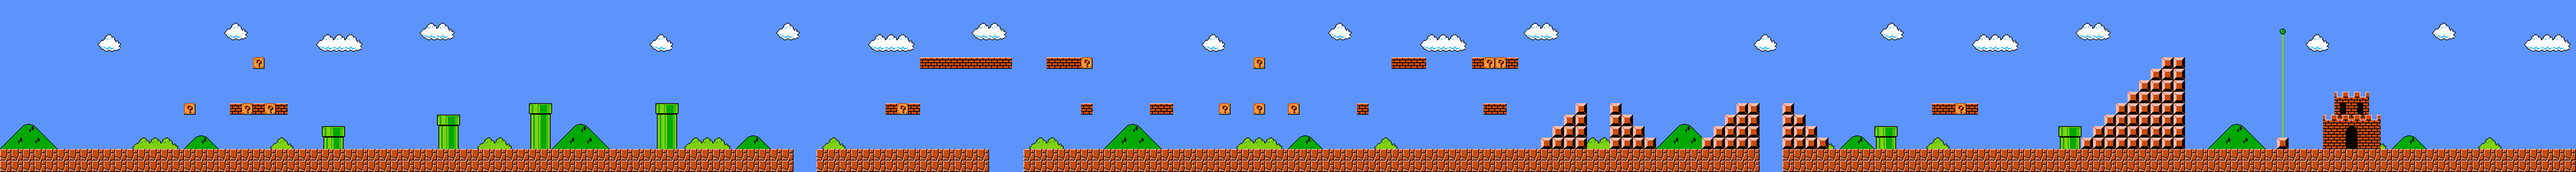
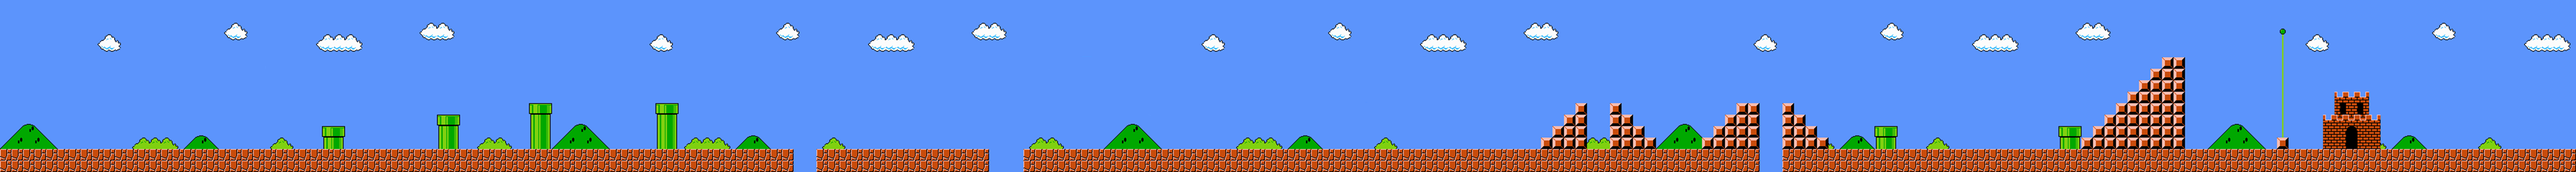
read README.md

diff --git a/src/GameManager.cpp b/src/GameManager.cpp
@@ -150,14 +150,14 @@ INITFORM_FUNC(initForm_1_1) {
 	img->SetPosition({ GetX0(img), 0 });
 	MyFM.addObject(Form_1_1, img);
 
-	auto mario = std::make_shared<Mario>("Mario", marioImagePath, 50);
+	auto mario = std::make_shared<Mario>("Mario", marioImagePath, 100);
 	mario->SetPosition({ 0, 100 });
 	//mario->SetPosition({ GetX0(Block) + Block->GetSize().x * 10, 100 });
 	MyFM.addObject(Form_1_1, mario);
 
-	auto event = std::make_shared<EventObject>("moveEvent", moveEvent);
-	event->userdata = std::make_shared<std::tuple<std::shared_ptr<ImageObject>, std::shared_ptr<Mario>>>(img, mario);
-	MyFM.addObject(Form_1_1, event);
+	auto eventobj = std::make_shared<EventObject>("moveEvent", moveEvent);
+	eventobj->userdata = std::make_shared<std::tuple<std::shared_ptr<ImageObject>, std::shared_ptr<Mario>>>(img, mario);
+	MyFM.addObject(Form_1_1, eventobj);
 
 	/*init door*/
 
@@ -211,6 +211,46 @@ INITFORM_FUNC(initForm_1_1) {
 	for (auto& it : Blocks) {
 		it->SetVisible(false);
 	}
+
+	const auto index = Blocks.size();
+	std::vector<std::shared_ptr<ImageObject>> QuestionBlocks;
+	/*init QuestionBlock*/
+	Blocks.push_back(std::make_shared<ImageObject>("QuestionBlock", QuestionBlockPath, 10));
+	Blocks.back()->SetPosition({ GetX0(Block) + Block->GetSize().x * (16), GetY0(Block) - Block->GetSize().y * (9) });
+	Blocks.push_back(std::make_shared<ImageObject>("QuestionBlock", QuestionBlockPath, 10));
+	Blocks.back()->SetPosition({ GetX0(Block) + Block->GetSize().x * (22), GetY0(Block) - Block->GetSize().y * (5) });
+	Blocks.push_back(std::make_shared<ImageObject>("QuestionBlock", QuestionBlockPath, 10));
+	Blocks.back()->SetPosition({ GetX0(Block) + Block->GetSize().x * (21), GetY0(Block) - Block->GetSize().y * (9) });
+	Blocks.push_back(std::make_shared<ImageObject>("QuestionBlock", QuestionBlockPath, 10));
+	Blocks.back()->SetPosition({ GetX0(Block) + Block->GetSize().x * (23), GetY0(Block) - Block->GetSize().y * (9) });
+	Blocks.push_back(std::make_shared<ImageObject>("QuestionBlock", QuestionBlockPath, 10));
+	Blocks.back()->SetPosition({ GetX0(Block) + Block->GetSize().x * (78), GetY0(Block) - Block->GetSize().y * (9) });
+	Blocks.push_back(std::make_shared<ImageObject>("QuestionBlock", QuestionBlockPath, 10));
+	Blocks.back()->SetPosition({ GetX0(Block) + Block->GetSize().x * (64), GetY0(Block) - Block->GetSize().y * (5) });
+	Blocks.push_back(std::make_shared<ImageObject>("QuestionBlock", QuestionBlockPath, 10));
+	Blocks.back()->SetPosition({ GetX0(Block) + Block->GetSize().x * (94), GetY0(Block) - Block->GetSize().y * (5) });
+	Blocks.push_back(std::make_shared<ImageObject>("QuestionBlock", QuestionBlockPath, 10));
+	Blocks.back()->SetPosition({ GetX0(Block) + Block->GetSize().x * (106), GetY0(Block) - Block->GetSize().y * (9) });
+	Blocks.push_back(std::make_shared<ImageObject>("QuestionBlock", QuestionBlockPath, 10));
+	Blocks.back()->SetPosition({ GetX0(Block) + Block->GetSize().x * (109), GetY0(Block) - Block->GetSize().y * (9) });
+	Blocks.push_back(std::make_shared<ImageObject>("QuestionBlock", QuestionBlockPath, 10));
+	Blocks.back()->SetPosition({ GetX0(Block) + Block->GetSize().x * (112), GetY0(Block) - Block->GetSize().y * (9) });
+	Blocks.push_back(std::make_shared<ImageObject>("QuestionBlock", QuestionBlockPath, 10));
+	Blocks.back()->SetPosition({ GetX0(Block) + Block->GetSize().x * (109), GetY0(Block) - Block->GetSize().y * (5) });
+	Blocks.push_back(std::make_shared<ImageObject>("QuestionBlock", QuestionBlockPath, 10));
+	Blocks.back()->SetPosition({ GetX0(Block) + Block->GetSize().x * (129), GetY0(Block) - Block->GetSize().y * (5) });
+	Blocks.push_back(std::make_shared<ImageObject>("QuestionBlock", QuestionBlockPath, 10));
+	Blocks.back()->SetPosition({ GetX0(Block) + Block->GetSize().x * (130), GetY0(Block) - Block->GetSize().y * (5) });
+	Blocks.push_back(std::make_shared<ImageObject>("QuestionBlock", QuestionBlockPath, 10));
+	Blocks.back()->SetPosition({ GetX0(Block) + Block->GetSize().x * (170), GetY0(Block) - Block->GetSize().y * (9) });
+	
+	for (int i = index; i < Blocks.size(); ++i) {
+		QuestionBlocks.push_back(Blocks[i]);
+	}
+
+	eventobj = std::make_shared<EventObject>("QuestionBlockPlayGIF", QuestionBlockPlayGIF);
+	eventobj->userdata = std::make_shared<std::tuple<std::shared_ptr<int>, std::shared_ptr<int>, std::vector<std::shared_ptr<ImageObject>>>>(std::make_shared<int>(0), std::make_shared<int>(0), QuestionBlocks);
+	MyFM.addObject(Form_1_1, eventobj);
 
 	/*init Brick*/
 	for (int i = 0; i < 224; ++i) {
@@ -290,36 +330,7 @@ INITFORM_FUNC(initForm_1_1) {
 	
 
 	//auto VisibleBrickindex = Blocks.size();
-	/*init QuestionBlock*/
-	Blocks.push_back(std::make_shared<ImageObject>("QuestionBlock", QuestionBlockPath, 50));
-	Blocks.back()->SetPosition({ GetX0(Block) + Block->GetSize().x * (16), GetY0(Block) - Block->GetSize().y * (9) });
-	Blocks.push_back(std::make_shared<ImageObject>("QuestionBlock", QuestionBlockPath, 50));
-	Blocks.back()->SetPosition({ GetX0(Block) + Block->GetSize().x * (22), GetY0(Block) - Block->GetSize().y * (5) });
-	Blocks.push_back(std::make_shared<ImageObject>("QuestionBlock", QuestionBlockPath, 50));
-	Blocks.back()->SetPosition({ GetX0(Block) + Block->GetSize().x * (21), GetY0(Block) - Block->GetSize().y * (9) });
-	Blocks.push_back(std::make_shared<ImageObject>("QuestionBlock", QuestionBlockPath, 50));
-	Blocks.back()->SetPosition({ GetX0(Block) + Block->GetSize().x * (23), GetY0(Block) - Block->GetSize().y * (9) });
-	Blocks.push_back(std::make_shared<ImageObject>("QuestionBlock", QuestionBlockPath, 50));
-	Blocks.back()->SetPosition({ GetX0(Block) + Block->GetSize().x * (78), GetY0(Block) - Block->GetSize().y * (9) });
-	Blocks.push_back(std::make_shared<ImageObject>("QuestionBlock", QuestionBlockPath, 50));
-	Blocks.back()->SetPosition({ GetX0(Block) + Block->GetSize().x * (64), GetY0(Block) - Block->GetSize().y * (5) });
-	Blocks.push_back(std::make_shared<ImageObject>("QuestionBlock", QuestionBlockPath, 50));
-	Blocks.back()->SetPosition({ GetX0(Block) + Block->GetSize().x * (94), GetY0(Block) - Block->GetSize().y * (5) });
-	Blocks.push_back(std::make_shared<ImageObject>("QuestionBlock", QuestionBlockPath, 50));
-	Blocks.back()->SetPosition({ GetX0(Block) + Block->GetSize().x * (106), GetY0(Block) - Block->GetSize().y * (9) });
-	Blocks.push_back(std::make_shared<ImageObject>("QuestionBlock", QuestionBlockPath, 50));
-	Blocks.back()->SetPosition({ GetX0(Block) + Block->GetSize().x * (109), GetY0(Block) - Block->GetSize().y * (9) });
-	Blocks.push_back(std::make_shared<ImageObject>("QuestionBlock", QuestionBlockPath, 50));
-	Blocks.back()->SetPosition({ GetX0(Block) + Block->GetSize().x * (112), GetY0(Block) - Block->GetSize().y * (9) });
-	Blocks.push_back(std::make_shared<ImageObject>("QuestionBlock", QuestionBlockPath, 50));
-	Blocks.back()->SetPosition({ GetX0(Block) + Block->GetSize().x * (109), GetY0(Block) - Block->GetSize().y * (5) });
-	Blocks.push_back(std::make_shared<ImageObject>("QuestionBlock", QuestionBlockPath, 50));
-	Blocks.back()->SetPosition({ GetX0(Block) + Block->GetSize().x * (129), GetY0(Block) - Block->GetSize().y * (5) });
-	Blocks.push_back(std::make_shared<ImageObject>("QuestionBlock", QuestionBlockPath, 50));
-	Blocks.back()->SetPosition({ GetX0(Block) + Block->GetSize().x * (130), GetY0(Block) - Block->GetSize().y * (5) });
-	Blocks.push_back(std::make_shared<ImageObject>("QuestionBlock", QuestionBlockPath, 50));
-	Blocks.back()->SetPosition({ GetX0(Block) + Block->GetSize().x * (170), GetY0(Block) - Block->GetSize().y * (9) });
-	
+
 	
 	for (auto& it : Blocks) {
 		//it->SetVisible(false);
@@ -336,11 +347,11 @@ INITFORM_FUNC(initForm_1_1) {
 	texttime->SetPosition({ GetX0(texttime), GetY0(texttime) });
 	MyFM.addObject(Form_1_1, texttime);
 
-	event = std::make_shared<EventObject>("UpdateTimeTextEvent", UpdateTimeText);
-	event->userdata = std::make_shared<std::tuple<std::shared_ptr<int>, std::shared_ptr<int>, std::shared_ptr<TextObject>>>(std::make_shared<int>(0), std::make_shared<int>(300), texttime);
-	MyFM.addObject(Form_1_1, event);
+	eventobj = std::make_shared<EventObject>("UpdateTimeTextEvent", UpdateTimeText);
+	eventobj->userdata = std::make_shared<std::tuple<std::shared_ptr<int>, std::shared_ptr<int>, std::shared_ptr<TextObject>>>(std::make_shared<int>(0), std::make_shared<int>(300), texttime);
+	MyFM.addObject(Form_1_1, eventobj);
 	
-	event = std::make_shared<EventObject>("CheckDoor", [](EventObject* const self, void* data) {
+	eventobj = std::make_shared<EventObject>("CheckDoor", [](EventObject* const self, void* data) {
 		auto& FM = static_cast<GameManager*>(data)->GetFormManger();
 		auto doorarrPtr = std::static_pointer_cast<std::array<std::shared_ptr<ImageObject>, 2>>(self->userdata);
 		auto mario = FM.GetFormObject(Form_1_1, ObjectType::Character, "Mario");
@@ -353,8 +364,8 @@ INITFORM_FUNC(initForm_1_1) {
 			}
 		}
 	});
-	event->userdata = std::make_shared<std::array<std::shared_ptr<ImageObject>, 2>>(doorarr);
-	MyFM.addObject(Form_1_1, event);
+	eventobj->userdata = std::make_shared<std::array<std::shared_ptr<ImageObject>, 2>>(doorarr);
+	MyFM.addObject(Form_1_1, eventobj);
 
 }
 

diff --git a/include/EventCallBackFunc.hpp b/include/EventCallBackFunc.hpp
@@ -27,7 +27,7 @@ EVENTCALLCALLBACKFUN(GetSystemTimeFunc){
 }
 
 EVENTCALLCALLBACKFUN(moveEvent) {
-    auto&& Displacement = WINDOW_HEIGHT/15/16.f;
+    auto&& Displacement = WINDOW_HEIGHT/15/8.f;
 	//const auto Displacement = WINDOW_HEIGHT / 15/2;
     auto tuplePtr = std::static_pointer_cast<std::tuple<std::shared_ptr<ImageObject>, std::shared_ptr<Mario>>>(self->userdata);
     auto& background = std::get<std::shared_ptr<ImageObject>>(*tuplePtr);
@@ -37,7 +37,7 @@ EVENTCALLCALLBACKFUN(moveEvent) {
     auto tmp = mario->GetPosition();
 	auto mariosize = mario->GetSize();
     if (Util::Input::IsKeyPressed(Util::Keycode::RSHIFT)) {
-		Displacement *= 16;
+		Displacement *= 2;
     }
     if (Util::Input::IsKeyDown(Util::Keycode::UP) && (mario)->GetState() == Mario::State::MOVE) {
         (mario)->jump();
@@ -133,6 +133,24 @@ EVENTCALLCALLBACKFUN(UpdateTimeText) {
 			//MyFM.Pause();
         }
     }
+}
+
+EVENTCALLCALLBACKFUN(QuestionBlockPlayGIF) {
+	const std::string imgs[] = { "imgs/super mario/QuestionBlock/frame0.png" , "imgs/super mario/QuestionBlock/frame1.png", "imgs/super mario/QuestionBlock/frame2.png", "imgs/super mario/QuestionBlock/frame3.png", "imgs/super mario/QuestionBlock/frame4.png", "imgs/super mario/QuestionBlock/frame5.png" };
+	auto& questions = std::get<std::vector<std::shared_ptr<ImageObject>>>(*std::static_pointer_cast<std::tuple<std::shared_ptr<int>, std::shared_ptr<int>, std::vector<std::shared_ptr<ImageObject>>>>(self->userdata));
+	auto& count = std::get<0>(*std::static_pointer_cast<std::tuple<std::shared_ptr<int>, std::shared_ptr<int>, std::vector<std::shared_ptr<ImageObject>>>>(self->userdata));
+	auto& imgindex = std::get<1>(*std::static_pointer_cast<std::tuple<std::shared_ptr<int>, std::shared_ptr<int>, std::vector<std::shared_ptr<ImageObject>>>>(self->userdata));
+	++(*count);
+	if (*count >= FPS_CAP / 6) {
+		++*imgindex;
+		*imgindex %= 6;
+		for (auto& it : questions) {
+			if ((it)->name == "QuestionBlock" && abs(it->GetPosition().x) <= WINDOW_WIDTH / 2 && abs(it->GetPosition().y) <= WINDOW_HEIGHT / 2) {
+				std::static_pointer_cast<Util::Image>((it)->GetDrawable())->SetImage(imgs[*imgindex]);
+			}
+		}
+		*count = 0;
+	}
 }
 
 

diff --git a/include/GameManager.hpp b/include/GameManager.hpp
@@ -5,20 +5,9 @@
 #include "Util/BGM.hpp"
 #include "Form/FormManger.hpp"
 #include "MyBGM.hpp"
+#include "FilePath.hpp"
 
 #include <memory>
-
-constexpr auto BGMPath = MY_RESOURCE_DIR"/BGM/Ring08.wav";
-constexpr auto MyFontPath = MY_RESOURCE_DIR"/Font/t112590005.ttf";
-constexpr auto ArialFontPath = MY_RESOURCE_DIR"/Font/arial.ttf";
-constexpr auto BackgroundImagePath = MY_RESOURCE_DIR"/Image/Background/cat.jpg";
-constexpr auto marioImagePath = "imgs/super mario/Mario/frame0.png";
-constexpr auto Background_1_1_ImagePath = "imgs/super mario/Maps/SuperMarioBrosMap1-1main-up.png";
-constexpr auto BlockImagePath = /*"imgs/super mario/floor.png";*/ "imgs/super mario/1-1/BrickBlockBrown.png";
-constexpr auto FloorImagePath = "imgs/super mario/floor.png";
-constexpr auto StairsBrickImagePath = "imgs/super mario/StairsBrick.png";
-constexpr auto QuestionBlockPath = "imgs/super mario/QuestionBlock/frame0.png";
-constexpr auto BlueblockImagePath = /*"imgs/super mario/StairsBrick.png";*/ "imgs/super mario/newBlueblock.png";
 
 constexpr auto FormBackground = "Background";
 constexpr auto FormOptions = "Options";

diff --git a/include/FilePath.hpp b/include/FilePath.hpp
@@ -1,0 +1,16 @@
+#ifndef FILEPATH_HPP
+#define FILEPATH_HPP
+constexpr auto BGMPath = MY_RESOURCE_DIR "/BGM/Ring08.wav";
+constexpr auto MyFontPath = MY_RESOURCE_DIR "/Font/t112590005.ttf";
+constexpr auto ArialFontPath = MY_RESOURCE_DIR "/Font/arial.ttf";
+constexpr auto BackgroundImagePath = MY_RESOURCE_DIR "/Image/Background/cat.jpg";
+constexpr auto marioImagePath = "imgs/super mario/Mario/frame0.png";
+constexpr auto Background_1_1_ImagePath = "imgs/super mario/Maps/SuperMarioBrosMap1-1main-up.png";
+constexpr auto BlockImagePath = /*"imgs/super mario/floor.png";*/ "imgs/super mario/1-1/BrickBlockBrown.png";
+constexpr auto FloorImagePath = "imgs/super mario/floor.png";
+constexpr auto StairsBrickImagePath = "imgs/super mario/StairsBrick.png";
+constexpr auto QuestionBlockPath = "imgs/super mario/QuestionBlock/frame0.png";
+constexpr auto EmptyBlockImagePath = "imgs/super mario/EmptyBlock.png";
+constexpr auto BlueblockImagePath = /*"imgs/super mario/StairsBrick.png";*/ "imgs/super mario/Blueblock.png";
+
+#endif // !FILEPATH_HPP

diff --git a/src/Mario.cpp b/src/Mario.cpp
@@ -2,6 +2,7 @@
 #include "Object/ImageObject.hpp"
 #include "Util/Input.hpp"
 #include "config.hpp"
+#include "FilePath.hpp"
 
 void Mario::behavior(void* data)
 {
@@ -17,11 +18,12 @@ void Mario::doJump() noexcept
         auto block = std::static_pointer_cast<std::vector<std::shared_ptr<ImageObject>>>(userdata);
         tmp.y += displacement;
         for (auto it = block->begin(); it < block->end(); ++it) {
-			if ((*it)->inRange({ tmp.x, tmp.y }, GetSize())) {
+			if ((*it)->collisionable && (*it)->inRange({ tmp.x, tmp.y }, GetSize())) {
 				tmp.y = (*it)->GetPosition().y - (*it)->GetSize().y / 2 - GetSize().y / 2;
                 if ((*it)->name == "QuestionBlock") {
-                    (*it)->SetVisible(false);
-					(*it)->collisionable = false;
+                    (*it)->SetVisible(true);
+					std::static_pointer_cast<Util::Image>((*it)->GetDrawable())->SetImage(EmptyBlockImagePath);
+					(*it)->name = "EmptyBlock";
 					//block->erase(it);
                 }
                 displacement = 0;

diff --git a/include/Object/Mario.hpp b/include/Object/Mario.hpp
@@ -8,7 +8,7 @@
 #include <string>
 
 
-const auto DEFAULTDISPLACEMENT = WINDOW_HEIGHT/15.f/5;
+const auto DEFAULTDISPLACEMENT = WINDOW_HEIGHT/15.f/4;
 
 class Mario : public Character {
 public:
